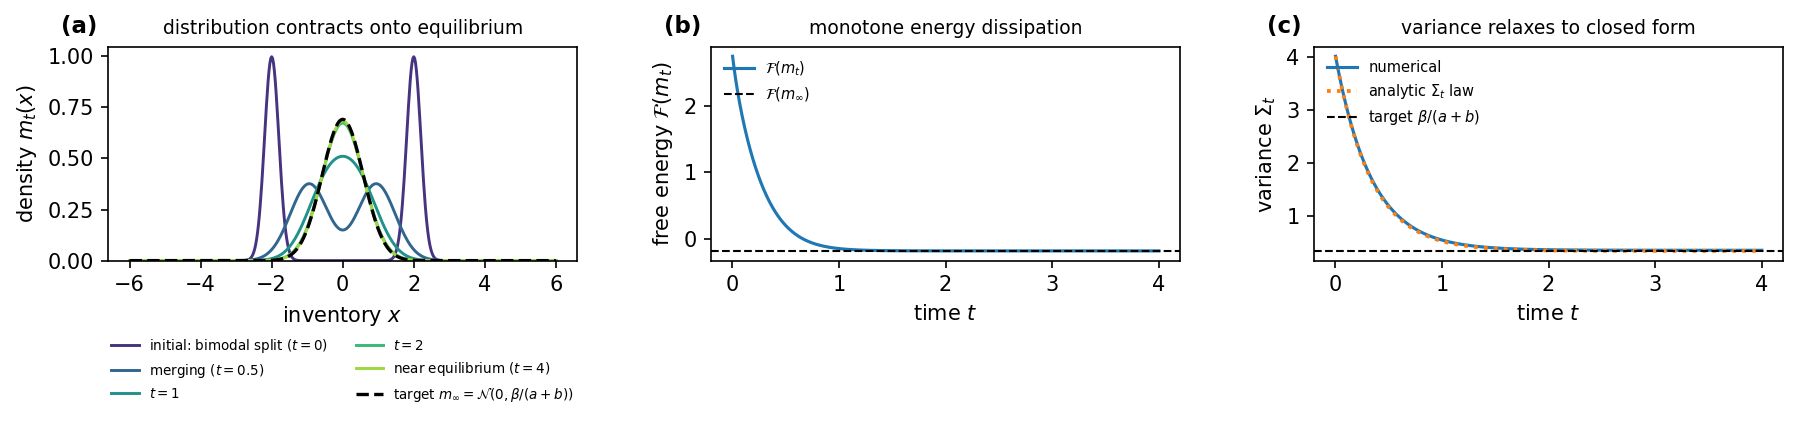
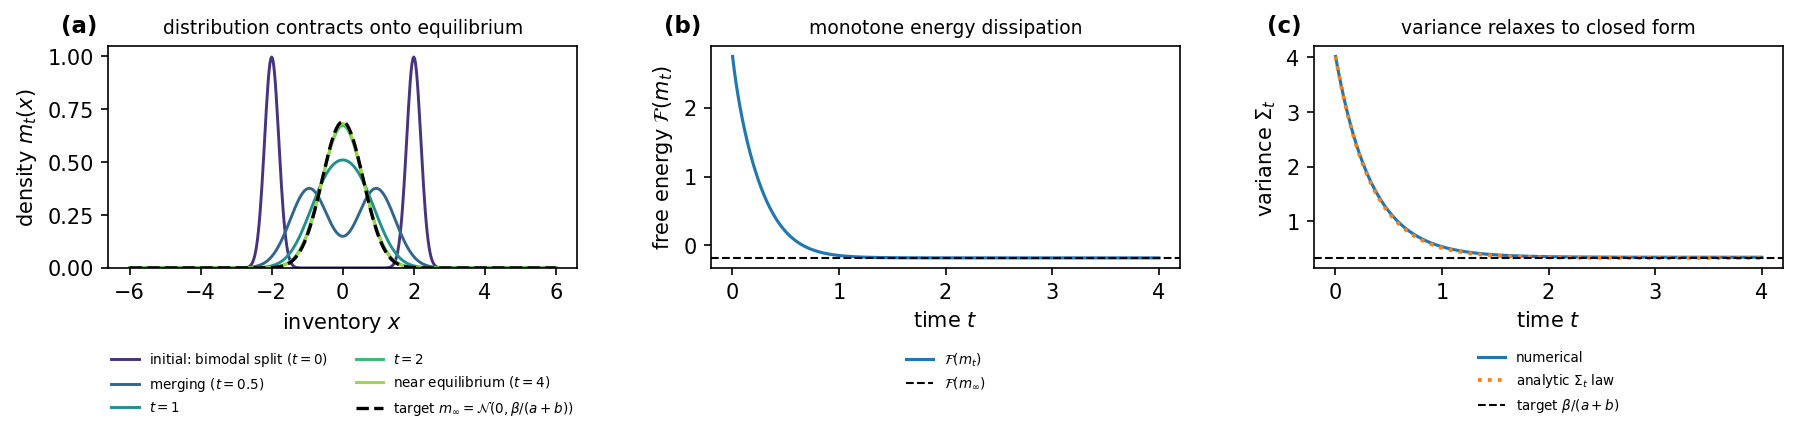
exp1/2 polish visuals

diff --git a/make_figures.py b/make_figures.py
@@ -70,10 +70,11 @@ def _shock_span(ax, window):
     ax.axvspan(window[0], window[1], alpha=0.18, color=SHOCK_COLOR, zorder=0)
 
 
-def _legend_below(ax, ncol: int = 2, fontsize: float = 6.5):
+def _legend_below(ax, ncol: int = 2, fontsize: float = 6.5, handles=None):
     ax.legend(
+        handles=handles,
         frameon=False, loc="upper center",
-        bbox_to_anchor=(0.5, -0.30), ncol=ncol, fontsize=fontsize,
+        bbox_to_anchor=(0.5, -0.32), ncol=ncol, fontsize=fontsize,
     )
 
 
@@ -104,7 +105,7 @@ def _snapshot_colors(n: int):
 def figure_exp1(data, path: Path) -> None:
     x = data["x"]
     model = data["model"]
-    fig, axes = plt.subplots(1, 3, figsize=(12, 3.6))
+    fig, axes = plt.subplots(1, 3, figsize=(12, 4.0))
 
     ax = axes[0]
     snap_items = sorted(data["snaps"].items())
@@ -128,7 +129,7 @@ def figure_exp1(data, path: Path) -> None:
     ax.set_ylabel(r"free energy $\mathcal{F}(m_t)$")
     ax.set_title("monotone energy dissipation", fontsize=9, pad=6)
     _panel_label(ax, "(b)")
-    _legend_upper_left(ax)
+    _legend_below(ax, ncol=1)
 
     ax = axes[2]
     ax.plot(data["t_arr"], data["var_arr"], label="numerical", color="C0", lw=1.5)
@@ -139,9 +140,9 @@ def figure_exp1(data, path: Path) -> None:
     ax.set_ylabel(r"variance $\Sigma_t$")
     ax.set_title("variance relaxes to closed form", fontsize=9, pad=6)
     _panel_label(ax, "(c)")
-    _legend_upper_left(ax)
+    _legend_below(ax, ncol=1)
 
-    _save_fig(fig, path, bottom_pad=0.06)
+    _save_fig(fig, path, bottom_pad=0.10)
 
 
 def figure_exp2(data, path: Path) -> None:
@@ -150,7 +151,7 @@ def figure_exp2(data, path: Path) -> None:
     c = data["shock_center"]
     x = data["x"]
     snap_labels = data.get("snap_labels", {})
-    fig, axes = plt.subplots(1, 3, figsize=(12, 3.6))
+    fig, axes = plt.subplots(1, 3, figsize=(12, 4.0))
 
     # (a) density first — same logic as exp1 (a)
     ax = axes[0]
@@ -177,13 +178,13 @@ def figure_exp2(data, path: Path) -> None:
     ax.set_ylabel(r"mean inventory $\mu_t$")
     ax.set_title("mean driven toward tilt, then relaxes at rate $a$", fontsize=9, pad=6)
     _panel_label(ax, "(b)")
-    ax.legend(handles=[
+    _legend_below(ax, ncol=1, handles=[
         plt.Line2D([0], [0], color="C0", lw=1.5, label=r"mean $\mu_t$"),
         Patch(facecolor=SHOCK_COLOR, alpha=0.18,
               label=rf"shock $t\in[{window[0]:g},{window[1]:g}]$"),
         plt.Line2D([0], [0], color=SHOCK_COLOR, ls="--", lw=1.2,
                    label=rf"tilt target $c={c:g}$"),
-    ], frameon=False, fontsize=7, loc="upper left")
+    ])
 
     # (c) W2 distance
     ax = axes[2]
@@ -194,13 +195,13 @@ def figure_exp2(data, path: Path) -> None:
     ax.set_ylabel(r"$W_2(m_t, m_\infty)$")
     ax.set_title("departure from and return to equilibrium", fontsize=9, pad=6)
     _panel_label(ax, "(c)")
-    ax.legend(handles=[
+    _legend_below(ax, ncol=1, handles=[
         plt.Line2D([0], [0], color="C2", lw=1.5, label=r"$W_2(m_t, m_\infty)$"),
         Patch(facecolor=SHOCK_COLOR, alpha=0.18,
               label=rf"shock $t\in[{window[0]:g},{window[1]:g}]$"),
-    ], frameon=False, fontsize=7, loc="upper left")
+    ])
 
-    _save_fig(fig, path, bottom_pad=0.06)
+    _save_fig(fig, path, bottom_pad=0.10)
 
 
 def figure_exp3(data, path: Path) -> None:
